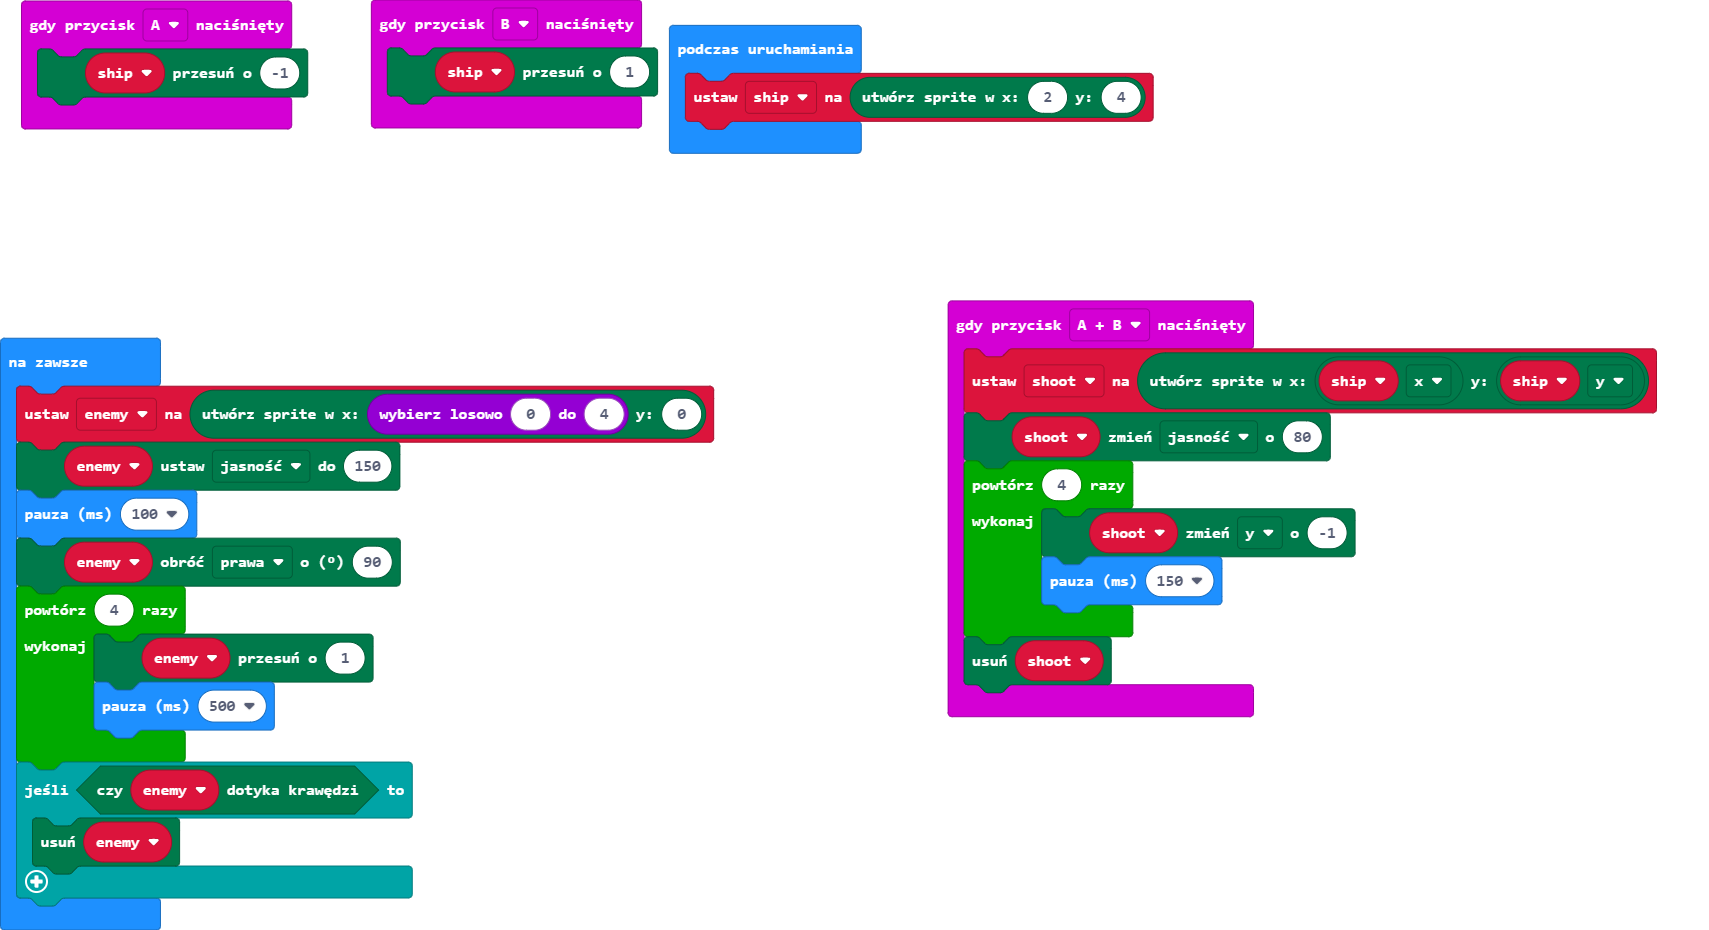
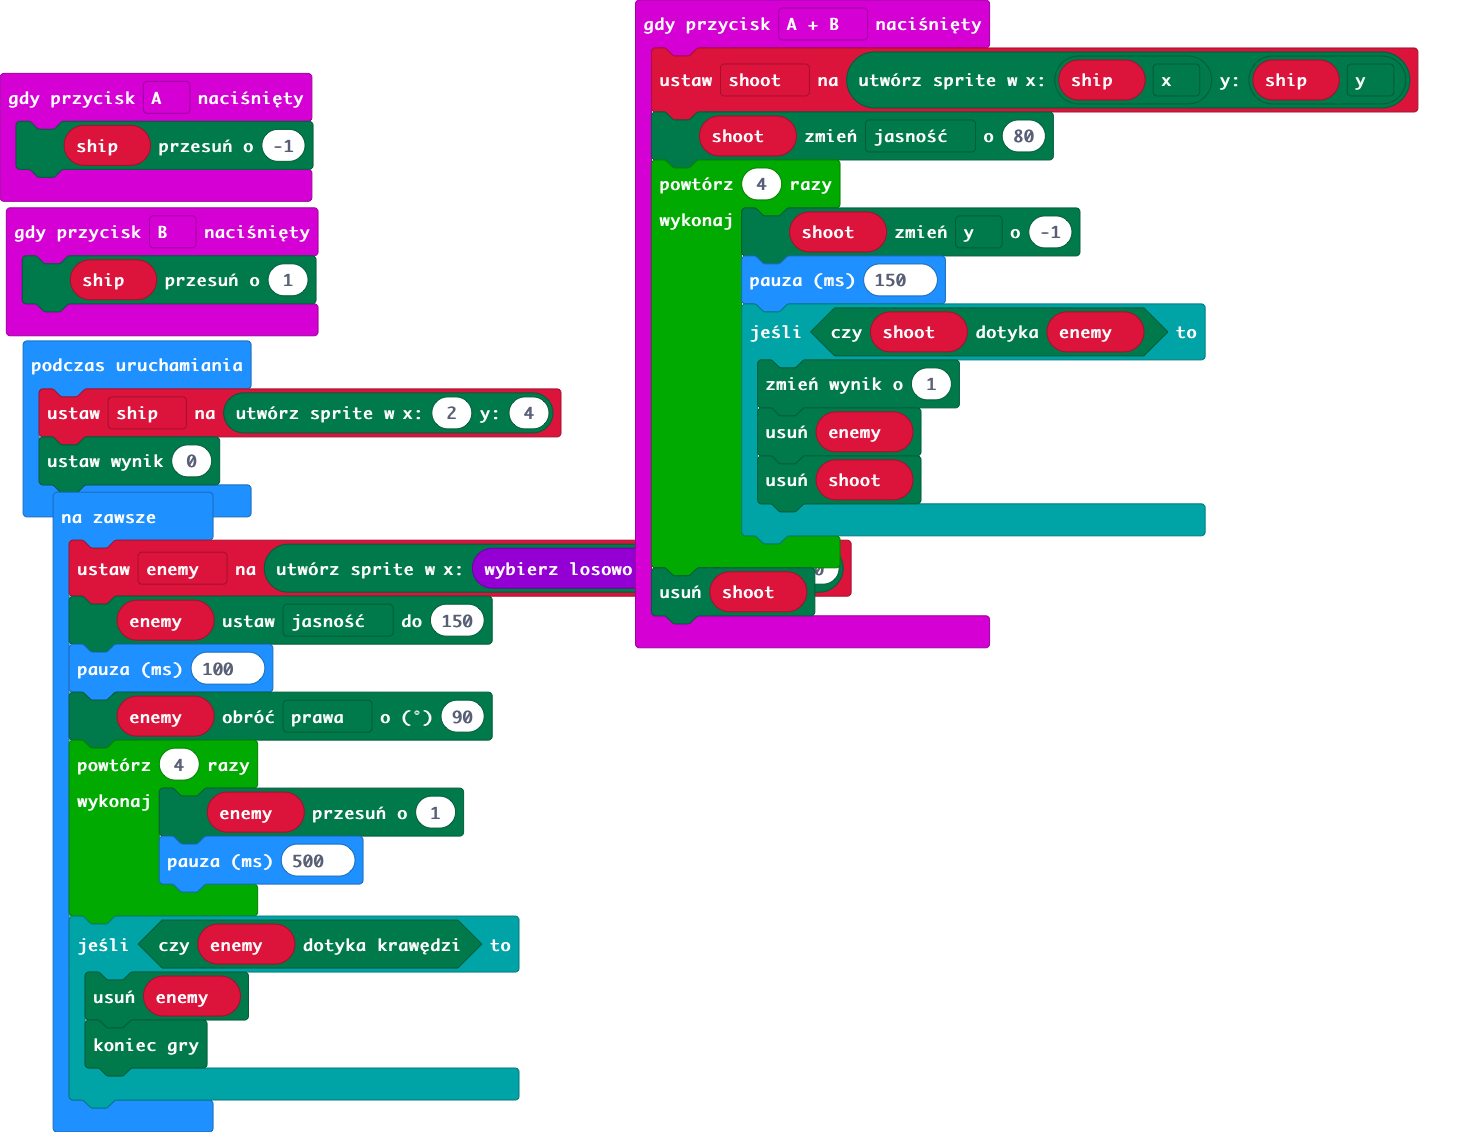
Aktualizacja pxt.json, main.blocks, main.ts

diff --git a/main.ts b/main.ts
@@ -7,6 +7,11 @@ input.onButtonPressed(Button.AB, function () {
     for (let index = 0; index < 4; index++) {
         shoot.change(LedSpriteProperty.Y, -1)
         basic.pause(150)
+        if (shoot.isTouching(enemy)) {
+            game.addScore(1)
+            enemy.delete()
+            shoot.delete()
+        }
     }
     shoot.delete()
 })
@@ -17,6 +22,7 @@ let enemy: game.LedSprite = null
 let shoot: game.LedSprite = null
 let ship: game.LedSprite = null
 ship = game.createSprite(2, 4)
+game.setScore(0)
 basic.forever(function () {
     enemy = game.createSprite(randint(0, 4), 0)
     enemy.set(LedSpriteProperty.Brightness, 150)
@@ -28,5 +34,6 @@ basic.forever(function () {
     }
     if (enemy.isTouchingEdge()) {
         enemy.delete()
+        game.gameOver()
     }
 })
